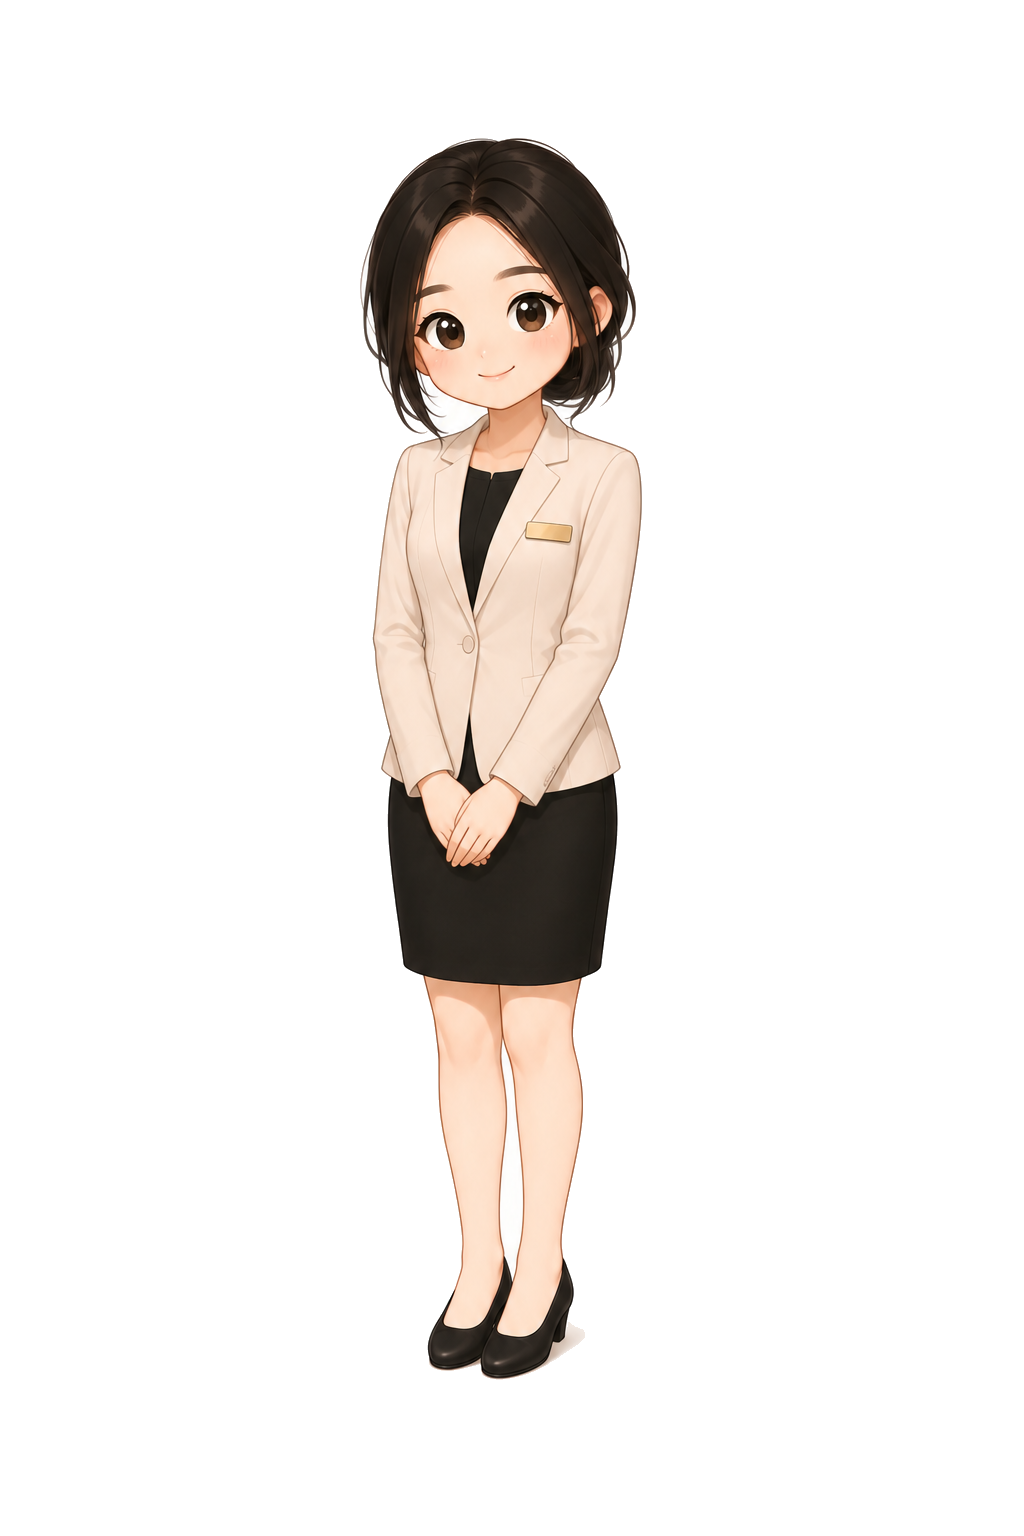
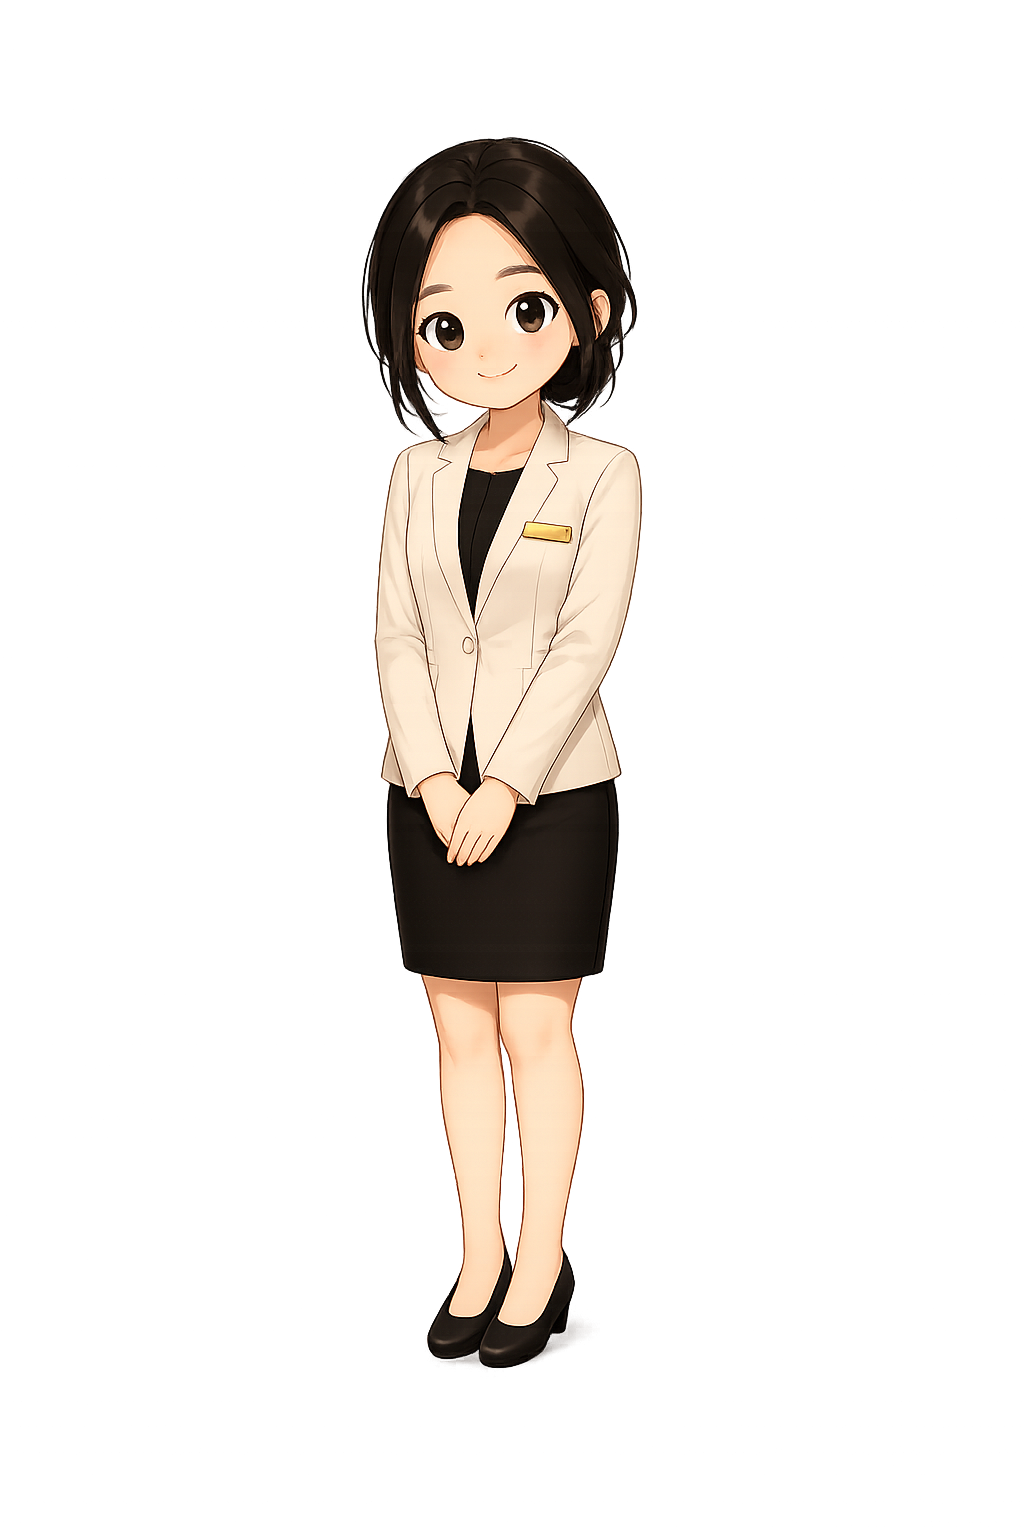
Replace coordinator image without animation

diff --git a/styles.css b/styles.css
@@ -1093,41 +1093,14 @@ body {
   text-align: left;
 }
 
-.experience-portrait {
-  position: relative;
+.experience-image {
   width: min(100%, 400px);
-  aspect-ratio: 2 / 3;
   max-height: min(68vh, 620px);
   justify-self: center;
-  filter: drop-shadow(0 24px 30px rgb(94 63 46 / 16%));
-}
-
-.experience-image,
-.experience-wave-arm {
-  position: absolute;
-  inset: 0;
-  width: 100%;
-  height: 100%;
-}
-
-.experience-image {
   display: block;
   object-fit: contain;
   border-radius: 8px;
-}
-
-.experience-wave-arm {
-  background-image: url('./assets/coordinator-yeonji.png');
-  background-repeat: no-repeat;
-  background-position: center;
-  background-size: 100% 100%;
-  clip-path: polygon(53% 31%, 65% 35%, 64% 54%, 57% 63%, 48% 58%, 50% 45%);
-  pointer-events: none;
-  transform-origin: 58% 35%;
-}
-
-.experience-section.is-expanded .experience-wave-arm {
-  animation: coordinator-wave 3.8s ease-in-out infinite;
+  filter: drop-shadow(0 24px 30px rgb(94 63 46 / 16%));
 }
 
 @keyframes landed-squash {
@@ -1141,35 +1114,6 @@ body {
 
   100% {
     transform: scaleY(1) translateY(0);
-  }
-}
-
-@keyframes coordinator-wave {
-  0%,
-  18%,
-  82%,
-  100% {
-    transform: rotate(0deg) translate(0, 0);
-  }
-
-  30% {
-    transform: rotate(-19deg) translate(-2%, -4%);
-  }
-
-  38% {
-    transform: rotate(-31deg) translate(-5%, -8%);
-  }
-
-  46% {
-    transform: rotate(-22deg) translate(-3%, -5%);
-  }
-
-  54% {
-    transform: rotate(-33deg) translate(-6%, -8%);
-  }
-
-  64% {
-    transform: rotate(-16deg) translate(-2%, -3%);
   }
 }
 
@@ -1324,7 +1268,7 @@ body {
     line-height: 1.34;
   }
 
-  .experience-portrait {
+  .experience-image {
     width: min(76vw, 300px);
     max-height: min(44vh, 380px);
   }
@@ -1376,8 +1320,7 @@ body {
   }
 
   .capybara.is-dragging .capybara-image,
-  .capybara.is-dragging .cry-bubble,
-  .experience-section.is-expanded .experience-wave-arm {
+  .capybara.is-dragging .cry-bubble {
     animation: none;
   }
 

diff --git a/index.html b/index.html
@@ -173,14 +173,11 @@
             I worked as a coordinator intern at Beijing International Hospital
             for six months.
           </p>
-          <div class="experience-portrait">
-            <img
-              class="experience-image"
-              src="./assets/coordinator-yeonji.png"
-              alt="Kim Yeonji as a coordinator intern"
-            />
-            <span class="experience-wave-arm" aria-hidden="true"></span>
-          </div>
+          <img
+            class="experience-image"
+            src="./assets/coordinator-yeonji.png"
+            alt="Kim Yeonji as a coordinator intern"
+          />
         </div>
       </div>
     </section>